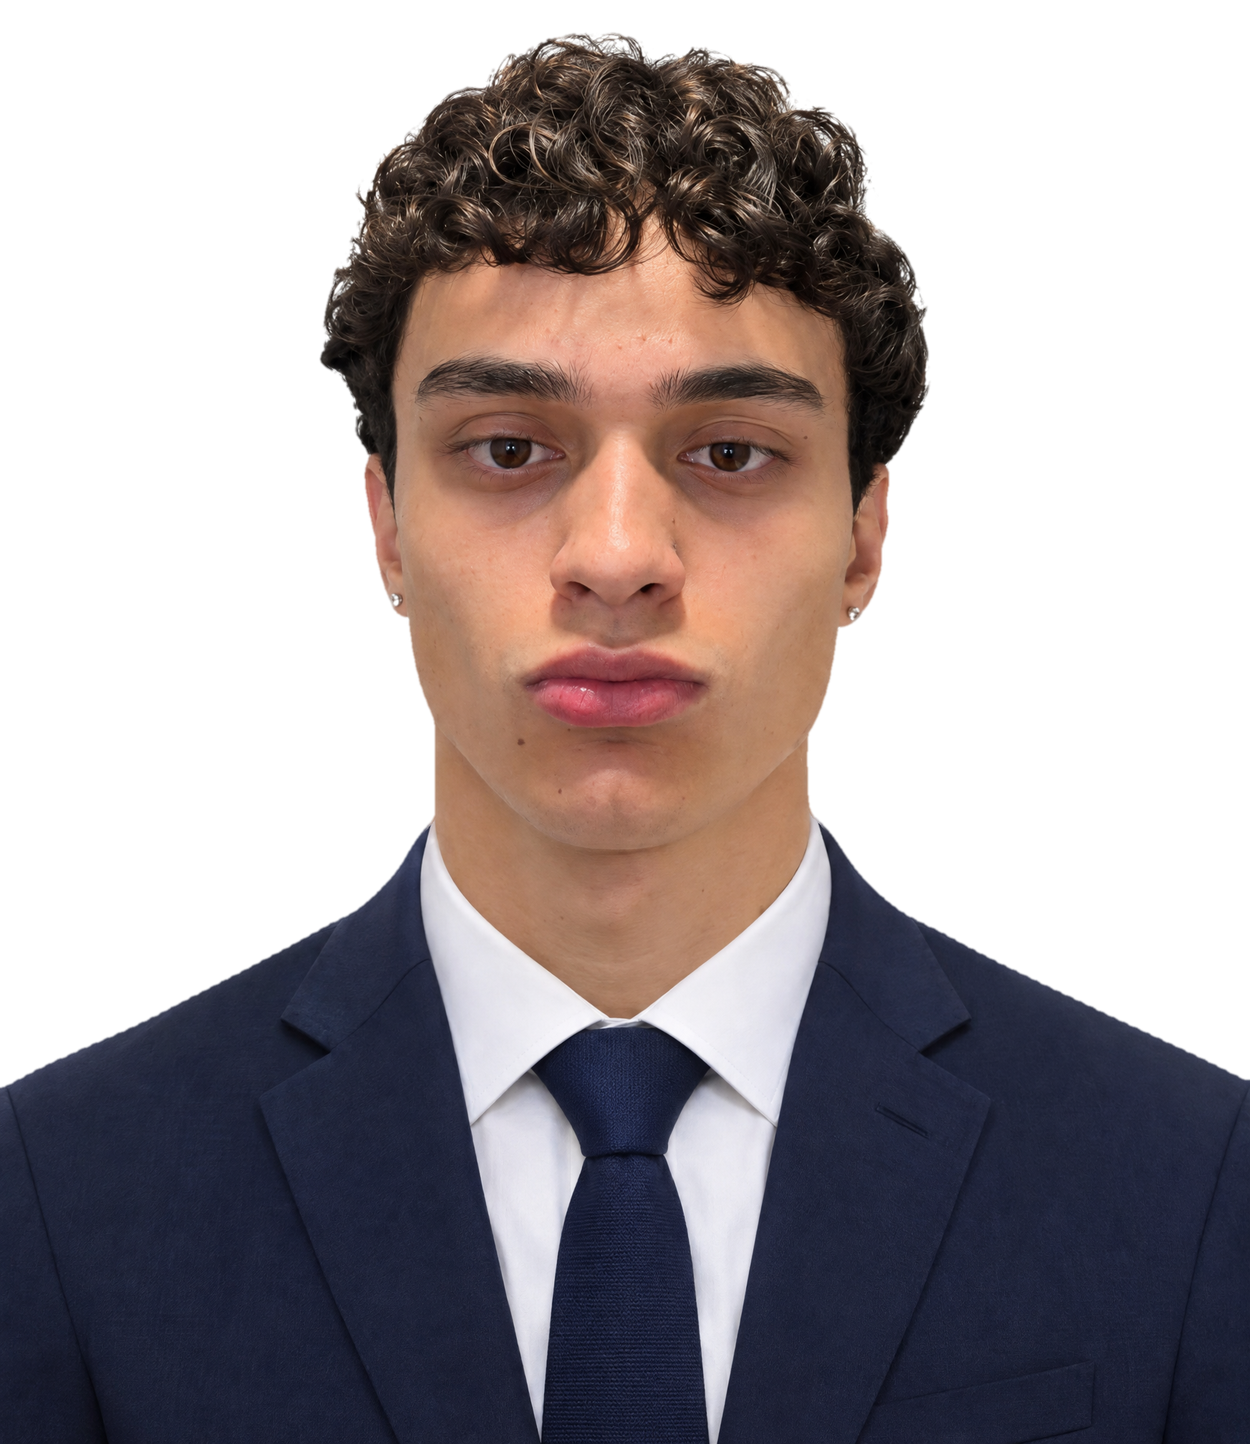
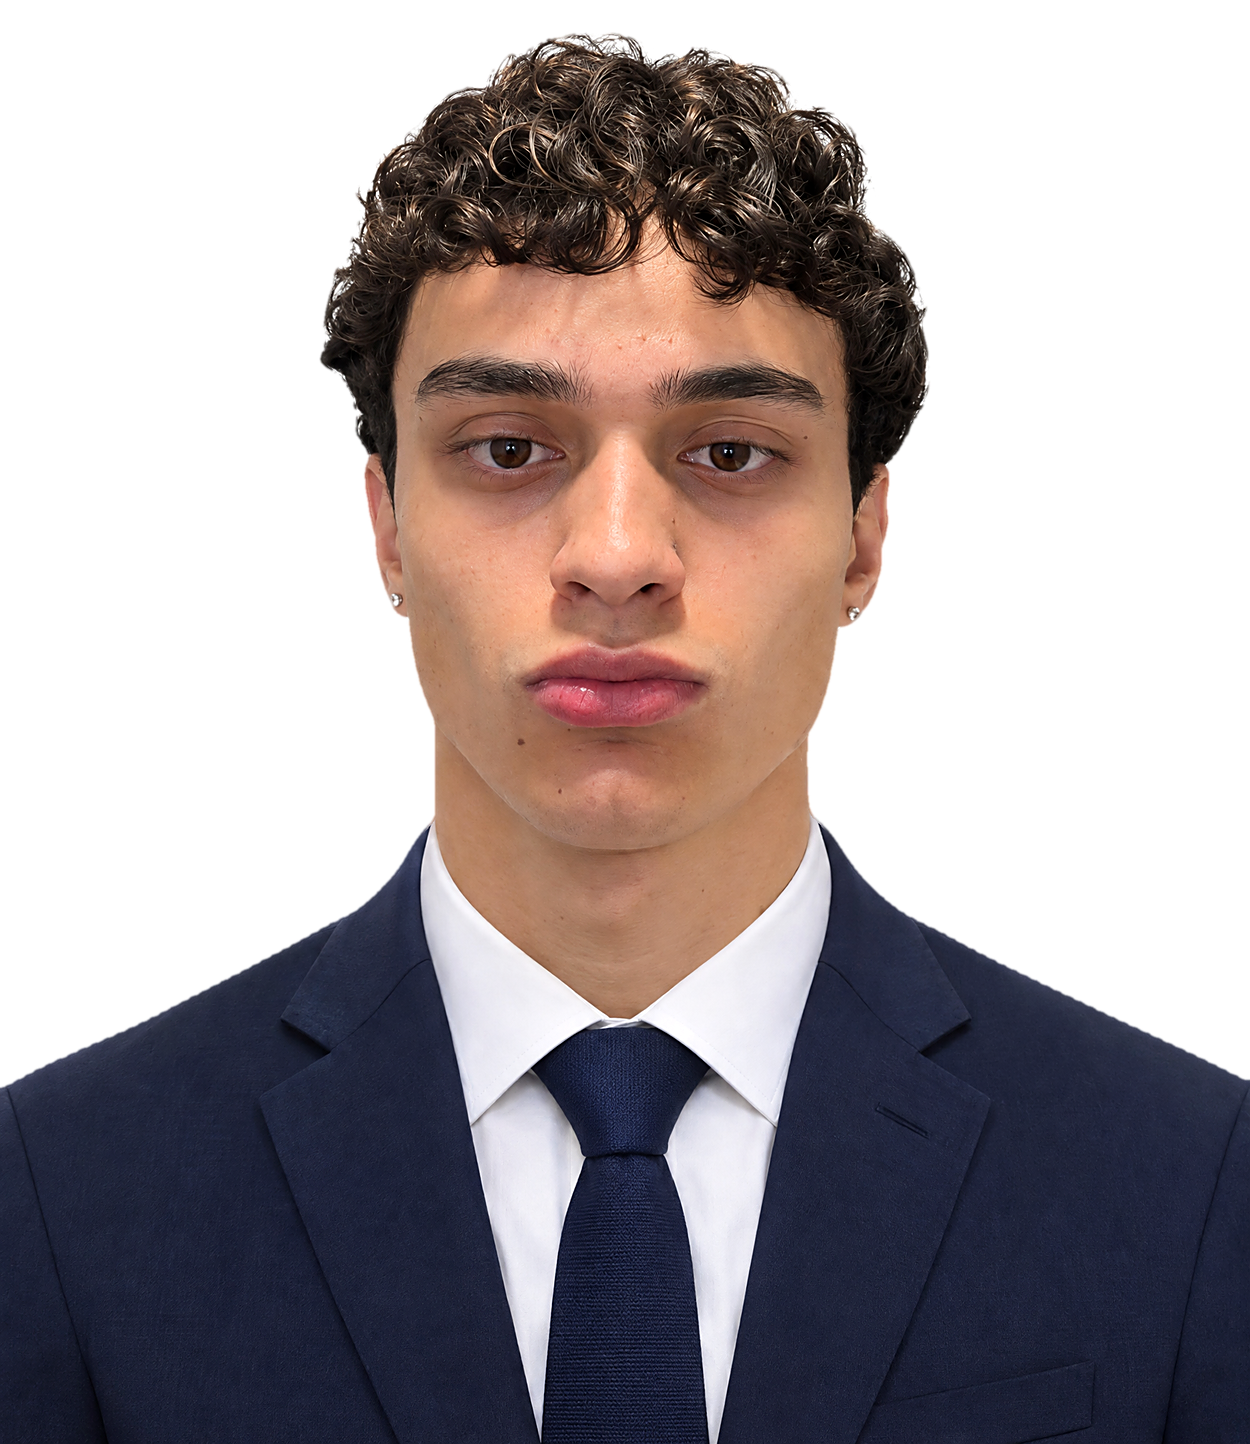
Foto a colori e più nitida

diff --git a/index.html b/index.html
@@ -28,7 +28,7 @@
     <div class="ghost" aria-hidden="true">SITI WEB</div>
 
     <div class="arch">
-      <img src="img/thomas-bn.png" alt="Thomas Zasso" onerror="this.remove()">
+      <img src="img/thomas.png?v=2" alt="Thomas Zasso" onerror="this.remove()">
       <span class="mono" aria-hidden="true">TZ</span>
     </div>
 
